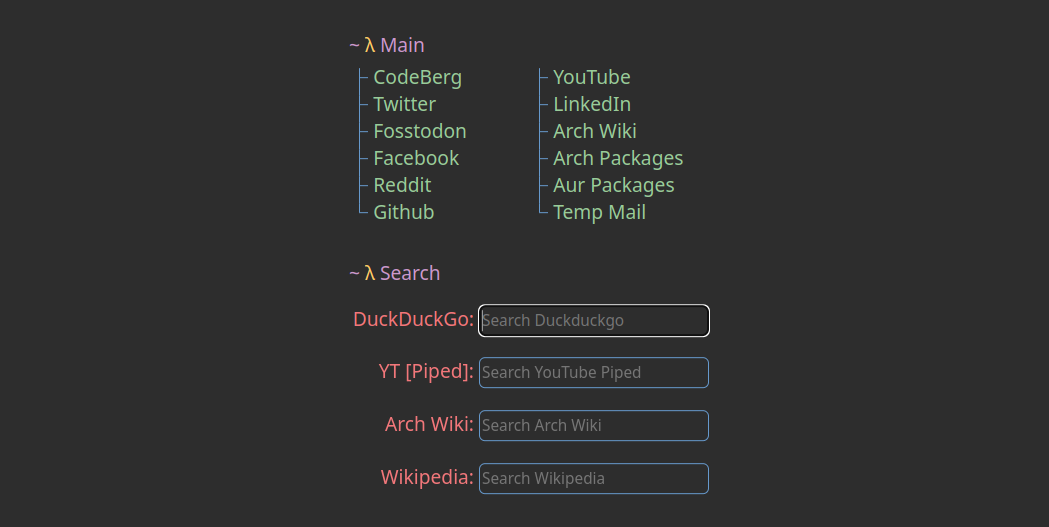
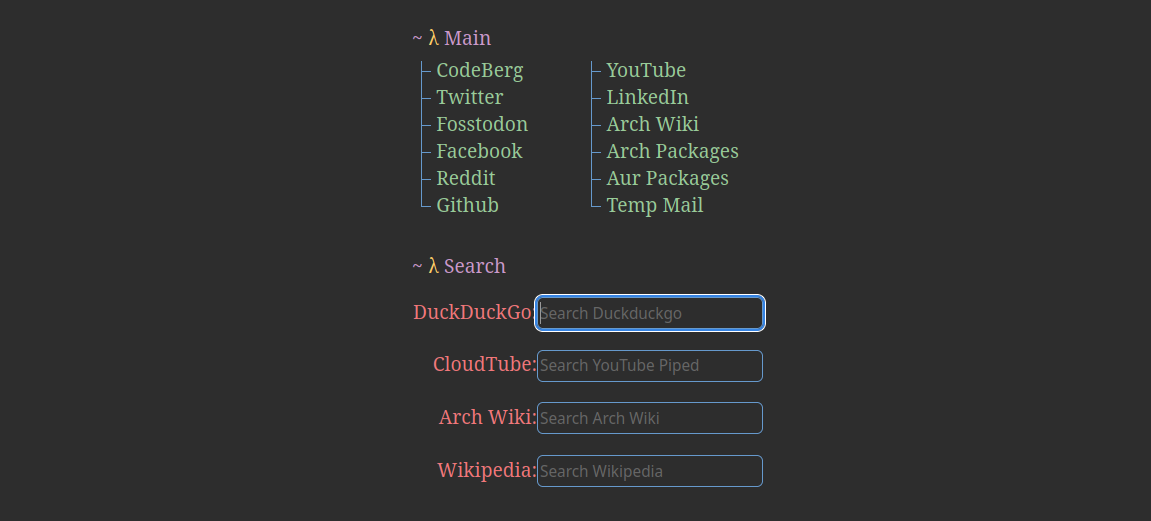
Updated youtube search to a better frontend

diff --git a/404.html b/404.html
@@ -1,1 +1,1 @@
-<!DOCTYPE html><html lang="en"><head><meta charset="utf-8"><meta http-equiv="X-UA-Compatible" content="IE=edge"><meta name="viewport" content="width=device-width, initial-scale=1.0"><title>Home Page</title><link rel="stylesheet" href="/styles/style.css"></head><body><div class="container"><div class="prompt">~ <span>λ </span>Main </div><div class="row"><div class="column"><div class="tree"><ul><li><a href="https://codeberg.org">CodeBerg </a></li><li><a href="https://twitter.com">Twitter </a></li><li><a href="https://fosstodon.org/">Fosstodon </a></li><li><a href="https://facebook.com">Facebook </a></li><li><a href="https://reddit.com">Reddit </a></li><li><a href="https://github.com">Github </a></li></ul></div></div><div class="column"><div class="tree"><ul><li><a href="https://youtube.com">YouTube </a></li><li><a href="https://linkedin.com">LinkedIn </a></li><li><a href="https://wiki.archlinux.org">Arch Wiki </a></li><li><a href="https://archlinux.org/packages/?sort=&q=">Arch Packages </a></li><li><a href="https://aur.archlinux.org/packages?O=0&K=">Aur Packages </a></li><li><a href="https://temporarymail.com">Temp Mail </a></li></ul></div></div></div><div class="prompt">~ <span>λ </span>Search </div><div class="searchengines"><form action="https://duckduckgo.com/" method="GET"><h1>DuckDuckGo:</h1> <input autofocus="autofocus" name="q" type="text" placeholder="Search Duckduckgo"></form><form action="https://piped.kavin.rocks/results" method="GET"><h1>YT [Piped]:</h1> <input name="search_query" type="text" placeholder="Search YouTube Piped "></form><form action="https://wiki.archlinux.org/index.php" method="GET"><h1>Arch Wiki:</h1> <input name="search" type="text" placeholder="Search Arch Wiki"></form><form action="https://en.wikipedia.org/wiki/Special:Search" method="GET"><h1>Wikipedia:</h1> <input name="search" type="text" placeholder="Search Wikipedia"></form></div></div></body></html>
+<!DOCTYPE html><html lang="en"><head><meta charset="utf-8" /><meta http-equiv="X-UA-Compatible" content="IE=edge" /><meta name="viewport" content="width=device-width, initial-scale=1.0" /><title>Home Page</title><link rel="stylesheet" href="/styles/style.css" /></head><body><div class="container"><div class="prompt">~ <span>λ </span>Main</div><div class="row"><div class="column"><div class="tree"><ul><li><a href="https://codeberg.org">CodeBerg </a></li><li><a href="https://twitter.com">Twitter </a></li><li><a href="https://fosstodon.org/">Fosstodon </a></li><li><a href="https://facebook.com">Facebook </a></li><li><a href="https://reddit.com">Reddit </a></li><li><a href="https://github.com">Github </a></li></ul></div></div><div class="column"><div class="tree"><ul><li><a href="https://youtube.com">YouTube </a></li><li><a href="https://linkedin.com">LinkedIn </a></li><li><a href="https://wiki.archlinux.org">Arch Wiki </a></li><li><a href="https://archlinux.org/packages/?sort=&q=" >Arch Packages </a></li><li><a href="https://aur.archlinux.org/packages?O=0&K=" >Aur Packages </a></li><li><a href="https://temporarymail.com">Temp Mail </a></li></ul></div></div></div><div class="prompt">~ <span>λ </span>Search</div><div class="searchengines"><form action="https://duckduckgo.com/" method="GET"><h1>DuckDuckGo:</h1><input autofocus="autofocus" name="q" type="text" placeholder="Search Duckduckgo" /></form><form action="https://yt.beparanoid.de/search" method="GET"><h1>CloudTube:</h1><input name="q" type="text" placeholder="Search YouTube Piped " /></form><form action="https://wiki.archlinux.org/index.php" method="GET"><h1>Arch Wiki:</h1><input name="search" type="text" placeholder="Search Arch Wiki" /></form><form action="https://en.wikipedia.org/wiki/Special:Search" method="GET" ><h1>Wikipedia:</h1><input name="search" type="text" placeholder="Search Wikipedia" /></form></div></div></body></html>

diff --git a/index.html b/index.html
@@ -1,1 +1,1 @@
-<!DOCTYPE html><html lang="en"><head><meta charset="utf-8"><meta http-equiv="X-UA-Compatible" content="IE=edge"><meta name="viewport" content="width=device-width, initial-scale=1.0"><title>Home Page</title><link rel="stylesheet" href="/styles/style.css"></head><body><div class="container"><div class="prompt">~ <span>λ </span>Main </div><div class="row"><div class="column"><div class="tree"><ul><li><a href="https://codeberg.org">CodeBerg </a></li><li><a href="https://twitter.com">Twitter </a></li><li><a href="https://fosstodon.org/">Fosstodon </a></li><li><a href="https://facebook.com">Facebook </a></li><li><a href="https://reddit.com">Reddit </a></li><li><a href="https://github.com">Github </a></li></ul></div></div><div class="column"><div class="tree"><ul><li><a href="https://youtube.com">YouTube </a></li><li><a href="https://linkedin.com">LinkedIn </a></li><li><a href="https://wiki.archlinux.org">Arch Wiki </a></li><li><a href="https://archlinux.org/packages/?sort=&q=">Arch Packages </a></li><li><a href="https://aur.archlinux.org/packages?O=0&K=">Aur Packages </a></li><li><a href="https://temporarymail.com">Temp Mail </a></li></ul></div></div></div><div class="prompt">~ <span>λ </span>Search </div><div class="searchengines"><form action="https://duckduckgo.com/" method="GET"><h1>DuckDuckGo:</h1> <input autofocus="autofocus" name="q" type="text" placeholder="Search Duckduckgo"></form><form action="https://piped.kavin.rocks/results" method="GET"><h1>YT [Piped]:</h1> <input name="search_query" type="text" placeholder="Search YouTube Piped "></form><form action="https://wiki.archlinux.org/index.php" method="GET"><h1>Arch Wiki:</h1> <input name="search" type="text" placeholder="Search Arch Wiki"></form><form action="https://en.wikipedia.org/wiki/Special:Search" method="GET"><h1>Wikipedia:</h1> <input name="search" type="text" placeholder="Search Wikipedia"></form></div></div></body></html>
+<!DOCTYPE html><html lang="en"><head><meta charset="utf-8" /><meta http-equiv="X-UA-Compatible" content="IE=edge" /><meta name="viewport" content="width=device-width, initial-scale=1.0" /><title>Home Page</title><link rel="stylesheet" href="/styles/style.css" /></head><body><div class="container"><div class="prompt">~ <span>λ </span>Main</div><div class="row"><div class="column"><div class="tree"><ul><li><a href="https://codeberg.org">CodeBerg </a></li><li><a href="https://twitter.com">Twitter </a></li><li><a href="https://fosstodon.org/">Fosstodon </a></li><li><a href="https://facebook.com">Facebook </a></li><li><a href="https://reddit.com">Reddit </a></li><li><a href="https://github.com">Github </a></li></ul></div></div><div class="column"><div class="tree"><ul><li><a href="https://youtube.com">YouTube </a></li><li><a href="https://linkedin.com">LinkedIn </a></li><li><a href="https://wiki.archlinux.org">Arch Wiki </a></li><li><a href="https://archlinux.org/packages/?sort=&q=" >Arch Packages </a></li><li><a href="https://aur.archlinux.org/packages?O=0&K=" >Aur Packages </a></li><li><a href="https://temporarymail.com">Temp Mail </a></li></ul></div></div></div><div class="prompt">~ <span>λ </span>Search</div><div class="searchengines"><form action="https://duckduckgo.com/" method="GET"><h1>DuckDuckGo:</h1><input autofocus="autofocus" name="q" type="text" placeholder="Search Duckduckgo" /></form><form action="https://yt.beparanoid.de/search" method="GET"><h1>CloudTube:</h1><input name="q" type="text" placeholder="Search YouTube Piped " /></form><form action="https://wiki.archlinux.org/index.php" method="GET"><h1>Arch Wiki:</h1><input name="search" type="text" placeholder="Search Arch Wiki" /></form><form action="https://en.wikipedia.org/wiki/Special:Search" method="GET" ><h1>Wikipedia:</h1><input name="search" type="text" placeholder="Search Wikipedia" /></form></div></div></body></html>
